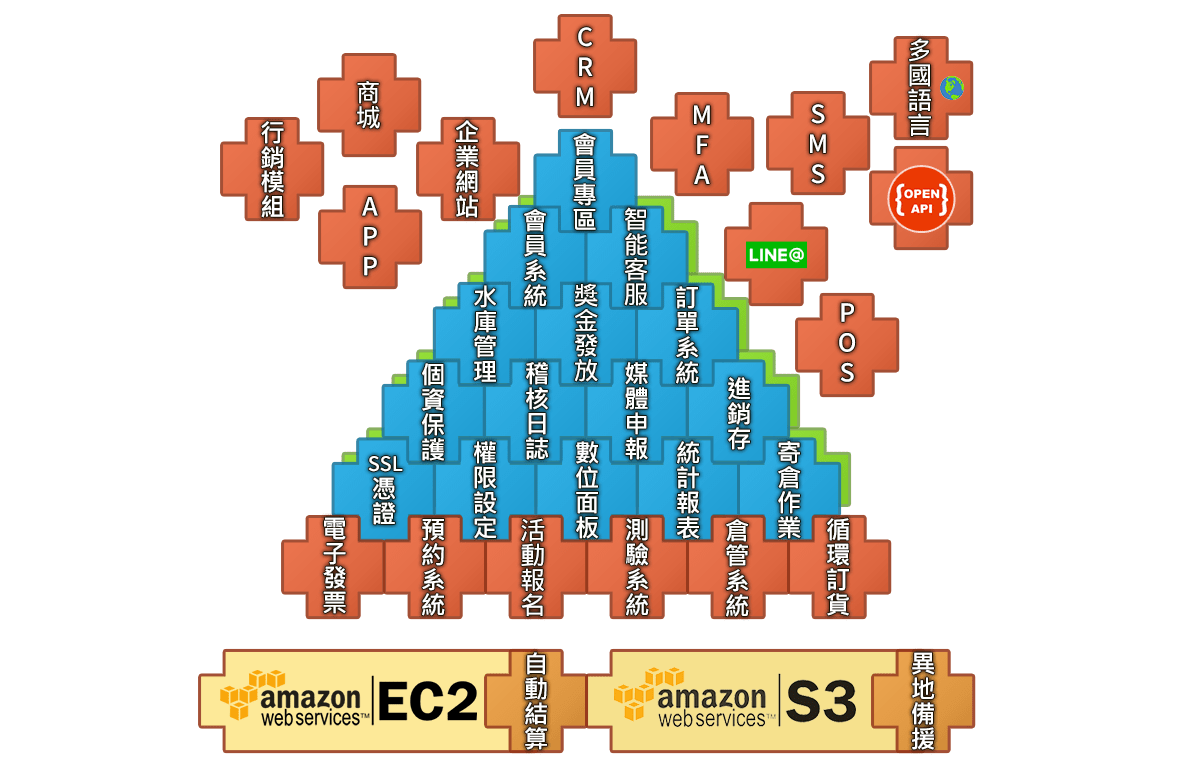
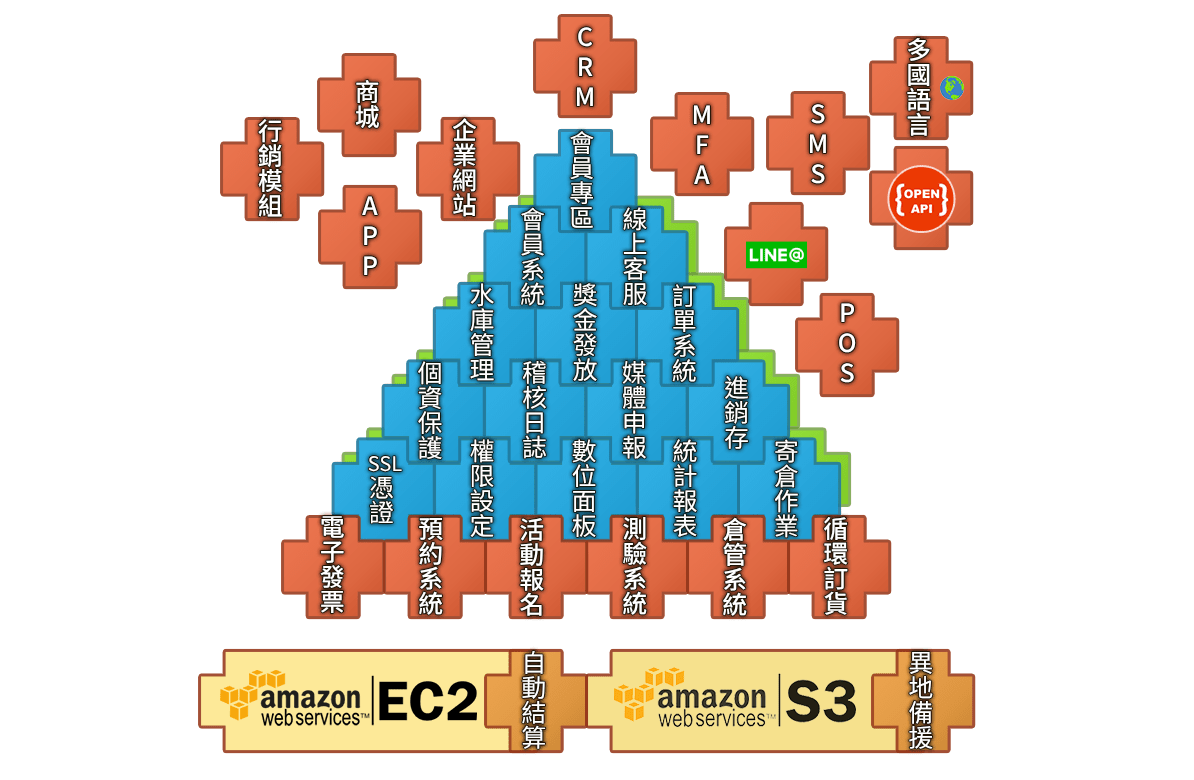
官網upgrade_202311 - 3

diff --git a/index.html b/index.html
@@ -203,7 +203,7 @@
       <h4>軟體包含「基本架構」、「影子系統」及「擴充模組」三大區塊；彈性的架構，滿足客戶多變的需求。</h4>
 	  <div class="ab-trio">
 		<div class="valign-center-elem">
-			<img src="img/11MayStructure.png?v=20231120" alt="" class="img-responsive">
+			<img src="img/11MayStructure.png?v=20240215" alt="" class="img-responsive">
 		</div>
 		<div class="ab-cirlce ab-cirle-blue">
 		  <i class="fa fa-life-ring"></i>
